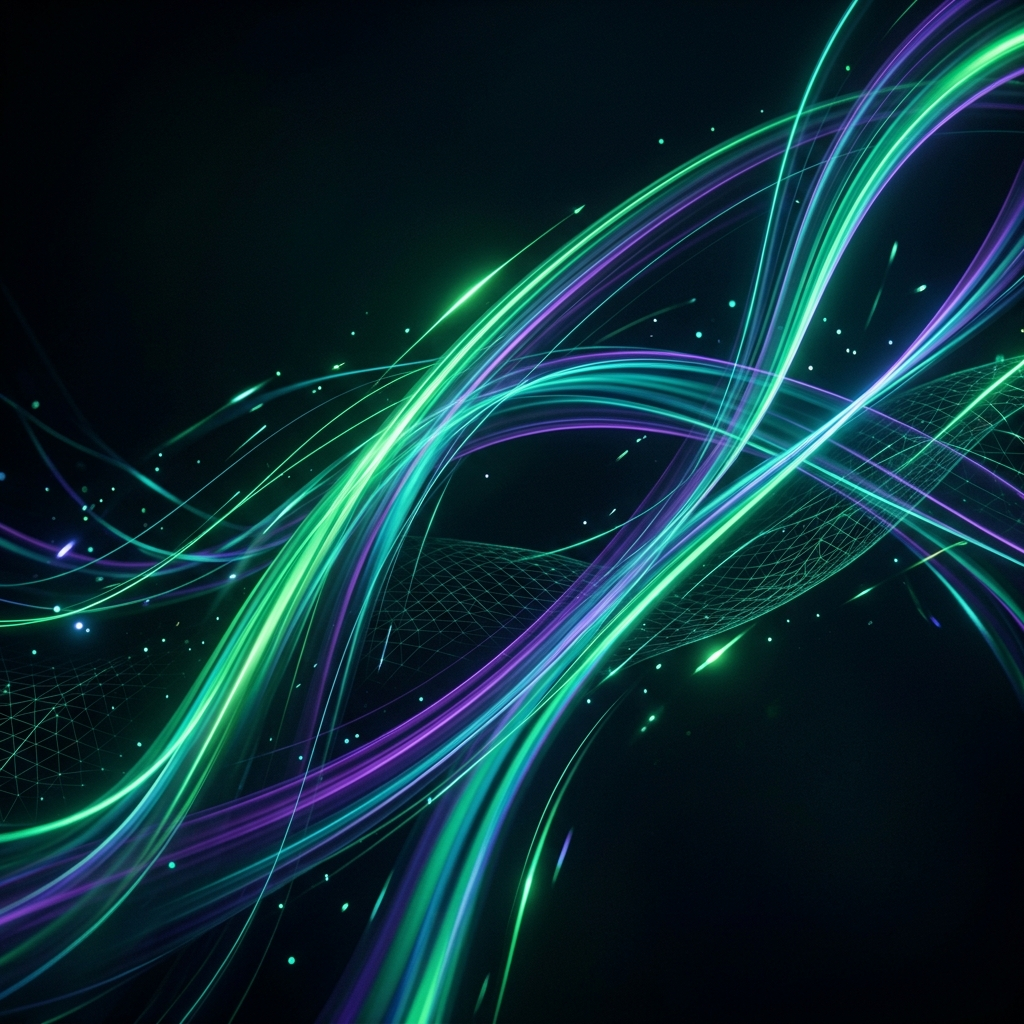
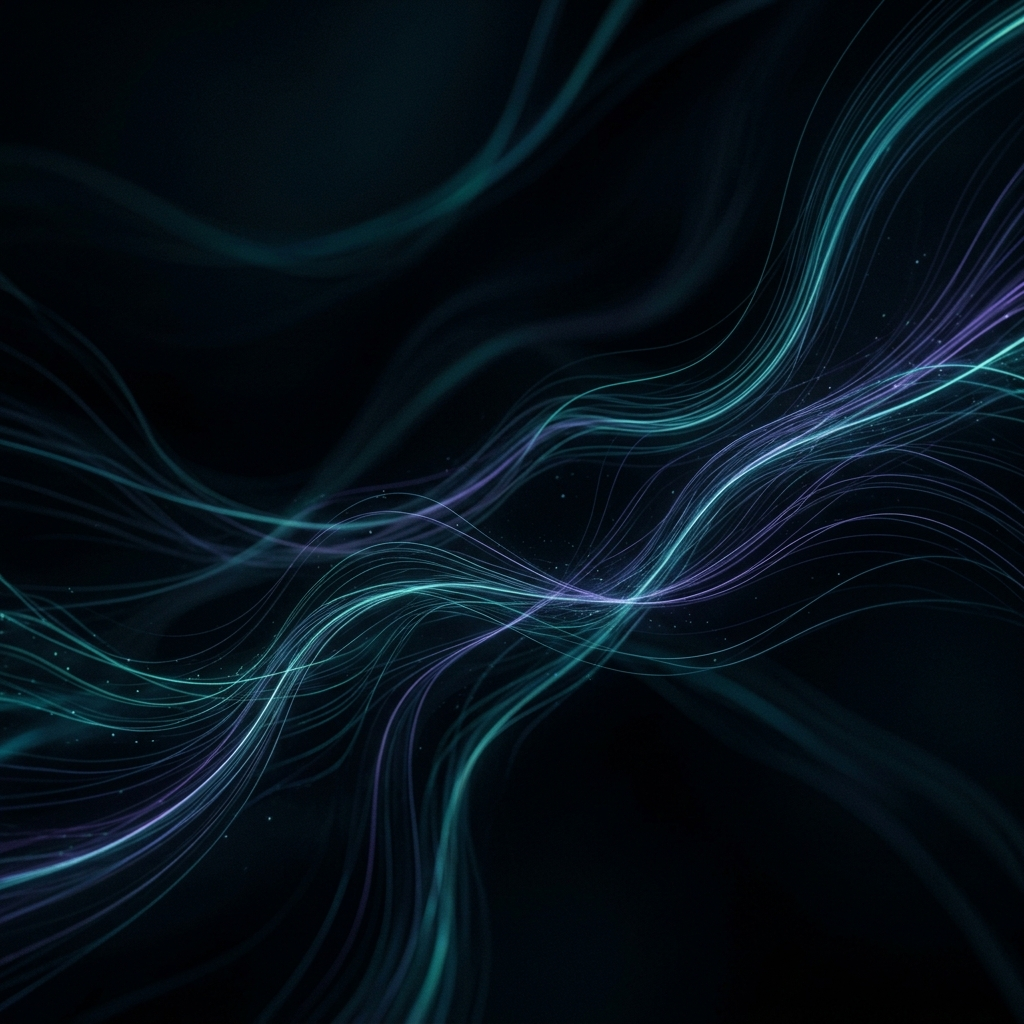
Fix: Production API URL, new cinematic auth backgrounds, remove all footer text from auth pages

diff --git a/frontend/src/app/auth/register/page.tsx b/frontend/src/app/auth/register/page.tsx
@@ -27,44 +27,58 @@ export default function RegisterPage() {
       toast.success("Organization registered successfully!");
       router.push("/dashboard");
     } catch (err: any) {
-      toast.error(err?.response?.data?.message || "Registration failed");
+      toast.error(err?.response?.data?.message || "Registration failed. Please try again.");
     }
   };
 
   const update = (field: string) => (e: React.ChangeEvent<HTMLInputElement>) =>
     setForm((prev) => ({ ...prev, [field]: e.target.value }));
 
+  const labelStyle: React.CSSProperties = {
+    display: "block",
+    fontFamily: "monospace",
+    fontSize: "10px",
+    color: "rgba(255,255,255,0.4)",
+    textTransform: "uppercase",
+    letterSpacing: "0.12em",
+    marginBottom: "7px",
+  };
+
   return (
-    <div className="min-h-screen flex items-center justify-center relative overflow-hidden bg-black py-12">
-      {/* Professional Background */}
-      <div className="absolute inset-0 z-0">
+    <div style={{ minHeight: "100vh", display: "flex", alignItems: "center", justifyContent: "center", position: "relative", overflow: "hidden", background: "#000", paddingTop: "48px", paddingBottom: "48px" }}>
+      
+      {/* Cinematic background */}
+      <div style={{ position: "absolute", inset: 0, zIndex: 0 }}>
         <Image
-          src="/assets/site-bg.png"
+          src="/assets/auth-bg.png"
           alt="Background"
           fill
-          className="object-cover"
+          style={{ objectFit: "cover" }}
           priority
         />
-        <div className="absolute inset-0 bg-black/75" />
+        <div style={{ position: "absolute", inset: 0, background: "linear-gradient(135deg, rgba(0,0,0,0.82) 0%, rgba(0,0,0,0.65) 50%, rgba(0,0,0,0.82) 100%)" }} />
       </div>
 
-      <div className="w-full max-w-[440px] px-6 relative z-10">
-        {/* Logo */}
+      {/* Form container */}
+      <div style={{ width: "100%", maxWidth: "440px", padding: "0 24px", position: "relative", zIndex: 10 }}>
+
+        {/* Brand */}
         <motion.div
-          initial={{ opacity: 0, y: -16 }}
+          initial={{ opacity: 0, y: -14 }}
           animate={{ opacity: 1, y: 0 }}
-          className="text-center mb-7"
+          transition={{ duration: 0.4 }}
+          style={{ textAlign: "center", marginBottom: "24px" }}
         >
-          <div className="inline-flex items-center gap-2.5 mb-5">
-            <div className="w-9 h-9 rounded-md flex items-center justify-center iridescent-bg">
-              <Shield size={17} className="text-black" />
+          <div style={{ display: "inline-flex", alignItems: "center", gap: "10px", marginBottom: "18px" }}>
+            <div className="iridescent-bg" style={{ width: "36px", height: "36px", borderRadius: "8px", display: "flex", alignItems: "center", justifyContent: "center" }}>
+              <Shield size={16} style={{ color: "#000" }} />
             </div>
             <div>
               <div style={{ fontFamily: "var(--font-display)", fontWeight: 700, fontSize: "15px", color: "#fff", lineHeight: 1 }}>YesYouCan</div>
               <div style={{ fontFamily: "monospace", fontSize: "9px", color: "var(--accent-green)", letterSpacing: "0.15em", marginTop: "2px", textTransform: "uppercase" }}>Cyber Secure</div>
             </div>
           </div>
-          <h1 style={{ fontFamily: "var(--font-display)", fontWeight: 700, fontSize: "22px", color: "#fff", marginBottom: "6px", letterSpacing: "-0.01em" }}>
+          <h1 style={{ fontFamily: "var(--font-display)", fontWeight: 700, fontSize: "20px", color: "#fff", marginBottom: "5px", letterSpacing: "-0.01em" }}>
             Create your organization
           </h1>
           <p style={{ fontSize: "13px", color: "rgba(255,255,255,0.45)" }}>
@@ -74,55 +88,48 @@ export default function RegisterPage() {
 
         {/* Card */}
         <motion.div
-          initial={{ opacity: 0, y: 16 }}
+          initial={{ opacity: 0, y: 14 }}
           animate={{ opacity: 1, y: 0 }}
           transition={{ delay: 0.08 }}
-          className="glass-vibrant rounded-xl p-7"
+          style={{ background: "rgba(255,255,255,0.04)", border: "1px solid rgba(255,255,255,0.1)", borderRadius: "14px", padding: "28px", backdropFilter: "blur(20px)" }}
         >
-          <form onSubmit={handleSubmit} className="space-y-4">
-            <div>
-              <label style={{ display: "block", fontFamily: "monospace", fontSize: "10px", color: "rgba(255,255,255,0.4)", textTransform: "uppercase", letterSpacing: "0.12em", marginBottom: "7px" }}>
-                Organization Name
-              </label>
+          <form onSubmit={handleSubmit}>
+            {/* Org name */}
+            <div style={{ marginBottom: "14px" }}>
+              <label style={labelStyle}>Organization Name</label>
               <input type="text" value={form.organizationName} onChange={update("organizationName")}
                 className="input-field" placeholder="Acme Corporation" required />
             </div>
 
-            <div className="grid grid-cols-2 gap-3">
+            {/* Name row */}
+            <div style={{ display: "grid", gridTemplateColumns: "1fr 1fr", gap: "12px", marginBottom: "14px" }}>
               <div>
-                <label style={{ display: "block", fontFamily: "monospace", fontSize: "10px", color: "rgba(255,255,255,0.4)", textTransform: "uppercase", letterSpacing: "0.12em", marginBottom: "7px" }}>
-                  First Name
-                </label>
+                <label style={labelStyle}>First Name</label>
                 <input type="text" value={form.firstName} onChange={update("firstName")}
                   className="input-field" placeholder="John" required />
               </div>
               <div>
-                <label style={{ display: "block", fontFamily: "monospace", fontSize: "10px", color: "rgba(255,255,255,0.4)", textTransform: "uppercase", letterSpacing: "0.12em", marginBottom: "7px" }}>
-                  Last Name
-                </label>
+                <label style={labelStyle}>Last Name</label>
                 <input type="text" value={form.lastName} onChange={update("lastName")}
                   className="input-field" placeholder="Doe" required />
               </div>
             </div>
 
-            <div>
-              <label style={{ display: "block", fontFamily: "monospace", fontSize: "10px", color: "rgba(255,255,255,0.4)", textTransform: "uppercase", letterSpacing: "0.12em", marginBottom: "7px" }}>
-                Email Address
-              </label>
+            {/* Email */}
+            <div style={{ marginBottom: "14px" }}>
+              <label style={labelStyle}>Email Address</label>
               <input type="email" value={form.email} onChange={update("email")}
                 className="input-field" placeholder="you@company.com" required />
             </div>
 
-            <div>
-              <label style={{ display: "block", fontFamily: "monospace", fontSize: "10px", color: "rgba(255,255,255,0.4)", textTransform: "uppercase", letterSpacing: "0.12em", marginBottom: "7px" }}>
-                Password
-              </label>
-              <div className="relative">
+            {/* Password */}
+            <div style={{ marginBottom: "20px" }}>
+              <label style={labelStyle}>Password</label>
+              <div style={{ position: "relative" }}>
                 <input type={showPw ? "text" : "password"} value={form.password} onChange={update("password")}
-                  className="input-field pr-10" placeholder="Min. 8 characters" required minLength={8} />
+                  className="input-field" style={{ paddingRight: "40px" }} placeholder="Min. 8 characters" required minLength={8} />
                 <button type="button" onClick={() => setShowPw(!showPw)}
-                  className="absolute right-3 top-1/2 -translate-y-1/2 transition-colors"
-                  style={{ color: "rgba(255,255,255,0.35)" }}>
+                  style={{ position: "absolute", right: "12px", top: "50%", transform: "translateY(-50%)", color: "rgba(255,255,255,0.35)", background: "none", border: "none", cursor: "pointer", display: "flex", alignItems: "center" }}>
                   {showPw ? <EyeOff size={15} /> : <Eye size={15} />}
                 </button>
               </div>
@@ -133,11 +140,11 @@ export default function RegisterPage() {
               disabled={isLoading}
               whileHover={{ scale: 1.01 }}
               whileTap={{ scale: 0.99 }}
-              className="w-full py-3 rounded-lg btn-vibrant flex items-center justify-center gap-2 mt-1"
-              style={{ fontFamily: "var(--font-display)", fontWeight: 600, fontSize: "13px" }}
+              className="btn-vibrant"
+              style={{ width: "100%", padding: "12px", borderRadius: "10px", display: "flex", alignItems: "center", justifyContent: "center", gap: "8px", fontFamily: "var(--font-display)", fontWeight: 600, fontSize: "13px", border: "none", cursor: isLoading ? "not-allowed" : "pointer" }}
             >
               {isLoading ? (
-                <><div className="w-4 h-4 border-2 rounded-full animate-spin border-black/40 border-t-black" /> Creating workspace…</>
+                <><div style={{ width: "16px", height: "16px", border: "2px solid", borderTopColor: "transparent", borderRadius: "50%", animation: "spin 0.8s linear infinite" }} /> Creating workspace…</>
               ) : (
                 "Create Organization Account"
               )}
@@ -145,9 +152,9 @@ export default function RegisterPage() {
           </form>
         </motion.div>
 
-        <p className="text-center mt-5" style={{ fontSize: "12px", color: "rgba(255,255,255,0.35)" }}>
+        <p style={{ textAlign: "center", marginTop: "18px", fontSize: "12px", color: "rgba(255,255,255,0.35)" }}>
           Already have an account?{" "}
-          <Link href="/auth/login" style={{ color: "var(--accent-green)", fontWeight: 600 }} className="hover:underline">
+          <Link href="/auth/login" style={{ color: "var(--accent-green)", fontWeight: 600, textDecoration: "none" }}>
             Sign in
           </Link>
         </p>

diff --git a/frontend/src/app/auth/login/page.tsx b/frontend/src/app/auth/login/page.tsx
@@ -27,37 +27,41 @@ export default function LoginPage() {
   };
 
   return (
-    <div className="min-h-screen flex items-center justify-center relative overflow-hidden bg-black">
-      {/* Professional Background */}
-      <div className="absolute inset-0 z-0">
+    <div style={{ minHeight: "100vh", display: "flex", alignItems: "center", justifyContent: "center", position: "relative", overflow: "hidden", background: "#000" }}>
+      
+      {/* Cinematic background */}
+      <div style={{ position: "absolute", inset: 0, zIndex: 0 }}>
         <Image
-          src="/assets/site-bg.png"
+          src="/assets/auth-bg.png"
           alt="Background"
           fill
-          className="object-cover"
+          style={{ objectFit: "cover" }}
           priority
         />
-        <div className="absolute inset-0 bg-black/75" />
+        {/* Gradient overlay for readability */}
+        <div style={{ position: "absolute", inset: 0, background: "linear-gradient(135deg, rgba(0,0,0,0.82) 0%, rgba(0,0,0,0.65) 50%, rgba(0,0,0,0.82) 100%)" }} />
       </div>
 
-      <div className="w-full max-w-[400px] px-6 relative z-10">
-        {/* Logo */}
+      {/* Form container */}
+      <div style={{ width: "100%", maxWidth: "400px", padding: "0 24px", position: "relative", zIndex: 10 }}>
+        
+        {/* Logo / Brand */}
         <motion.div
-          initial={{ opacity: 0, y: -16 }}
+          initial={{ opacity: 0, y: -14 }}
           animate={{ opacity: 1, y: 0 }}
           transition={{ duration: 0.4 }}
-          className="text-center mb-8"
+          style={{ textAlign: "center", marginBottom: "28px" }}
         >
-          <div className="inline-flex items-center gap-2.5 mb-5">
-            <div className="w-9 h-9 rounded-md flex items-center justify-center iridescent-bg">
-              <Shield size={17} className="text-black" />
+          <div style={{ display: "inline-flex", alignItems: "center", gap: "10px", marginBottom: "20px" }}>
+            <div className="iridescent-bg" style={{ width: "36px", height: "36px", borderRadius: "8px", display: "flex", alignItems: "center", justifyContent: "center", flexShrink: 0 }}>
+              <Shield size={16} style={{ color: "#000" }} />
             </div>
-            <div className="text-left">
+            <div style={{ textAlign: "left" }}>
               <div style={{ fontFamily: "var(--font-display)", fontWeight: 700, fontSize: "15px", color: "#fff", lineHeight: 1 }}>YesYouCan</div>
               <div style={{ fontFamily: "monospace", fontSize: "9px", color: "var(--accent-green)", letterSpacing: "0.15em", marginTop: "2px", textTransform: "uppercase" }}>Cyber Secure</div>
             </div>
           </div>
-          <h1 style={{ fontFamily: "var(--font-display)", fontWeight: 700, fontSize: "22px", color: "#fff", marginBottom: "6px", letterSpacing: "-0.01em" }}>
+          <h1 style={{ fontFamily: "var(--font-display)", fontWeight: 700, fontSize: "20px", color: "#fff", marginBottom: "5px", letterSpacing: "-0.01em" }}>
             Sign in to your account
           </h1>
           <p style={{ fontSize: "13px", color: "rgba(255,255,255,0.45)", lineHeight: 1.5 }}>
@@ -67,13 +71,14 @@ export default function LoginPage() {
 
         {/* Card */}
         <motion.div
-          initial={{ opacity: 0, y: 16 }}
+          initial={{ opacity: 0, y: 14 }}
           animate={{ opacity: 1, y: 0 }}
           transition={{ duration: 0.4, delay: 0.08 }}
-          className="glass-vibrant rounded-xl p-7"
+          style={{ background: "rgba(255,255,255,0.04)", border: "1px solid rgba(255,255,255,0.1)", borderRadius: "14px", padding: "28px", backdropFilter: "blur(20px)" }}
         >
-          <form onSubmit={handleSubmit} className="space-y-4">
-            <div>
+          <form onSubmit={handleSubmit}>
+            {/* Email */}
+            <div style={{ marginBottom: "16px" }}>
               <label style={{ display: "block", fontFamily: "monospace", fontSize: "10px", color: "rgba(255,255,255,0.4)", textTransform: "uppercase", letterSpacing: "0.12em", marginBottom: "7px" }}>
                 Email Address
               </label>
@@ -88,16 +93,18 @@ export default function LoginPage() {
               />
             </div>
 
-            <div>
+            {/* Password */}
+            <div style={{ marginBottom: "20px" }}>
               <label style={{ display: "block", fontFamily: "monospace", fontSize: "10px", color: "rgba(255,255,255,0.4)", textTransform: "uppercase", letterSpacing: "0.12em", marginBottom: "7px" }}>
                 Password
               </label>
-              <div className="relative">
+              <div style={{ position: "relative" }}>
                 <input
                   type={showPw ? "text" : "password"}
                   value={password}
                   onChange={(e) => setPassword(e.target.value)}
-                  className="input-field pr-10"
+                  className="input-field"
+                  style={{ paddingRight: "40px" }}
                   placeholder="••••••••"
                   required
                   autoComplete="current-password"
@@ -105,8 +112,7 @@ export default function LoginPage() {
                 <button
                   type="button"
                   onClick={() => setShowPw(!showPw)}
-                  className="absolute right-3 top-1/2 -translate-y-1/2 transition-colors"
-                  style={{ color: "rgba(255,255,255,0.35)" }}
+                  style={{ position: "absolute", right: "12px", top: "50%", transform: "translateY(-50%)", color: "rgba(255,255,255,0.35)", background: "none", border: "none", cursor: "pointer", display: "flex", alignItems: "center" }}
                 >
                   {showPw ? <EyeOff size={15} /> : <Eye size={15} />}
                 </button>
@@ -118,12 +124,12 @@ export default function LoginPage() {
               disabled={isLoading}
               whileHover={{ scale: 1.01 }}
               whileTap={{ scale: 0.99 }}
-              className="w-full py-3 rounded-lg btn-vibrant flex items-center justify-center gap-2 mt-1"
-              style={{ fontFamily: "var(--font-display)", fontWeight: 600, fontSize: "13px" }}
+              className="btn-vibrant"
+              style={{ width: "100%", padding: "12px", borderRadius: "10px", display: "flex", alignItems: "center", justifyContent: "center", gap: "8px", fontFamily: "var(--font-display)", fontWeight: 600, fontSize: "13px", border: "none", cursor: isLoading ? "not-allowed" : "pointer" }}
             >
               {isLoading ? (
                 <>
-                  <div className="w-4 h-4 border-2 border-t-transparent rounded-full animate-spin border-black" />
+                  <div style={{ width: "16px", height: "16px", border: "2px solid", borderTopColor: "transparent", borderRadius: "50%", animation: "spin 0.8s linear infinite" }} />
                   Authenticating…
                 </>
               ) : (
@@ -136,15 +142,15 @@ export default function LoginPage() {
           </form>
         </motion.div>
 
+        {/* Register link */}
         <motion.p
           initial={{ opacity: 0 }}
           animate={{ opacity: 1 }}
           transition={{ delay: 0.3 }}
-          className="text-center mt-6"
-          style={{ fontSize: "12px", color: "rgba(255,255,255,0.35)" }}
+          style={{ textAlign: "center", marginTop: "20px", fontSize: "12px", color: "rgba(255,255,255,0.35)" }}
         >
           No account?{" "}
-          <Link href="/auth/register" style={{ color: "var(--accent-green)", fontWeight: 600 }} className="hover:underline">
+          <Link href="/auth/register" style={{ color: "var(--accent-green)", fontWeight: 600, textDecoration: "none" }}>
             Register your organization
           </Link>
         </motion.p>
